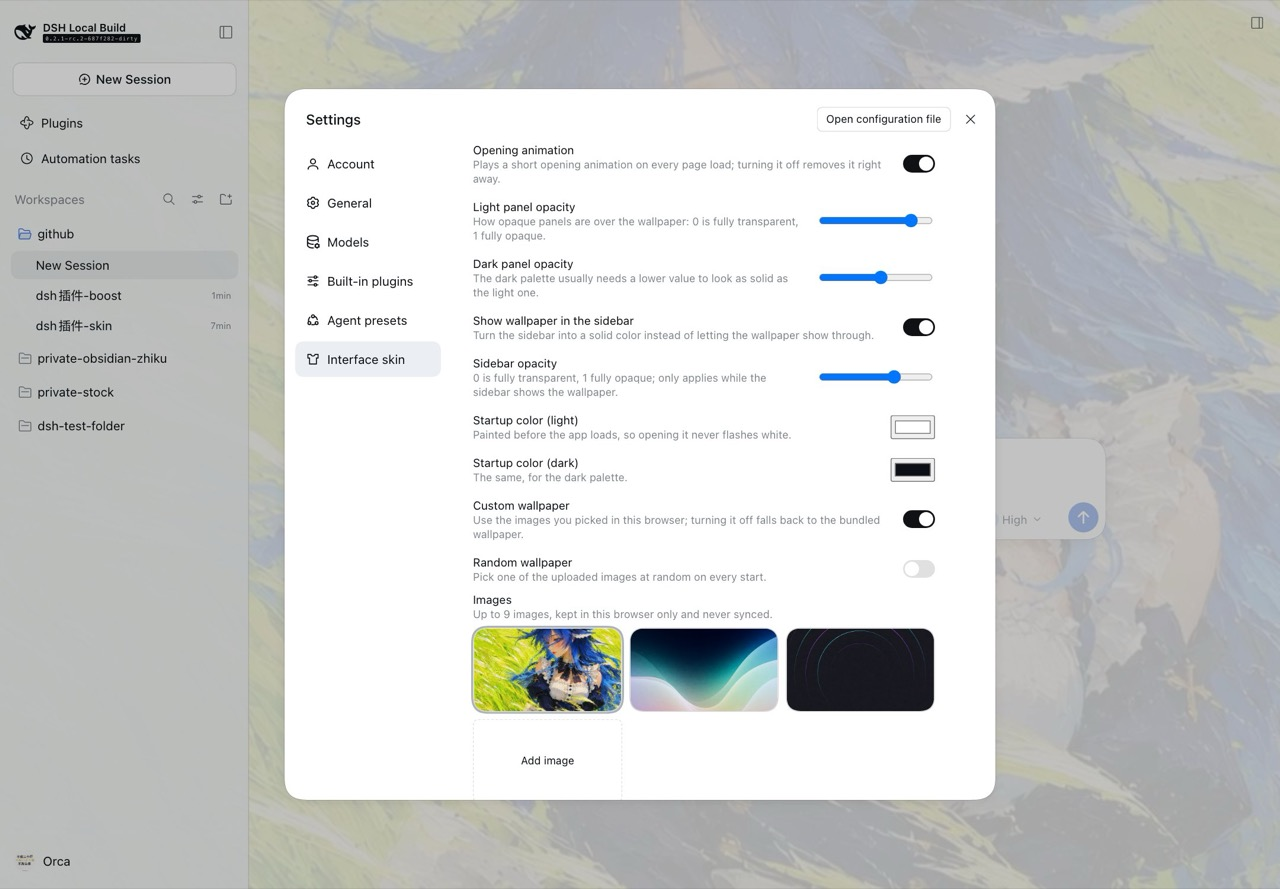
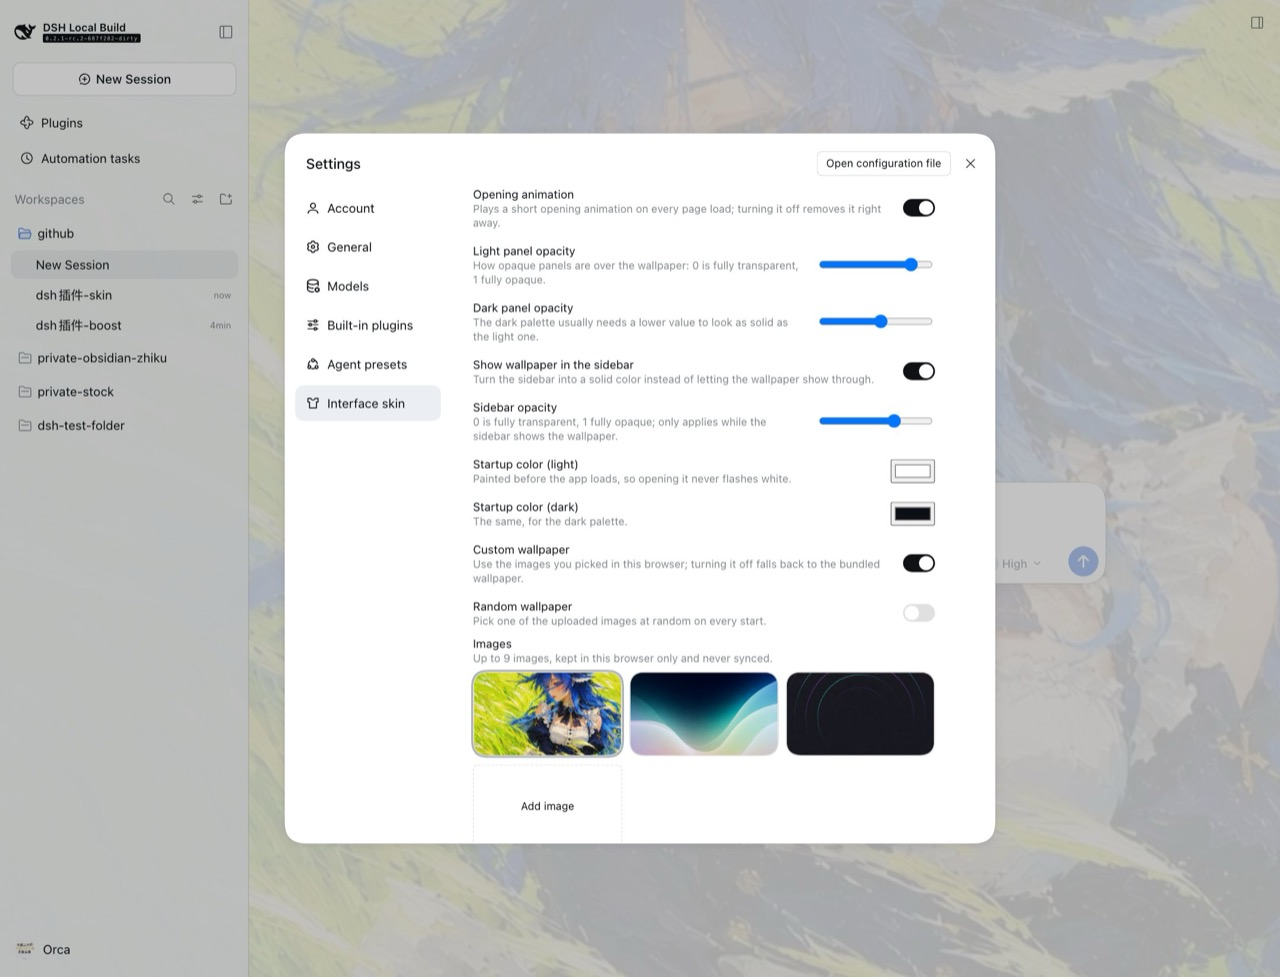
feat(shell-skin): delete an upload from a hover x on its thumbnail
Each tile owns its delete control; it stays hidden until hover or focus so
the grid stays quiet, and the separate Remove selected button is gone.

diff --git a/src/client/SkinSettingsRow.tsx b/src/client/SkinSettingsRow.tsx
@@ -235,11 +235,11 @@ export function SkinSettingsRow({ view, form, preview, listWallpapers, activeWal
       commit()
     }
   }
-  const removeSelected = async (): Promise<void> => {
-    if (active === undefined || removeWallpaper === undefined) return
+  const removeOne = async (id: string): Promise<void> => {
+    if (removeWallpaper === undefined) return
     try {
       setWallpaperError(undefined)
-      await removeWallpaper(active)
+      await removeWallpaper(id)
       refreshGallery()
     } catch (error) {
       setWallpaperError(storageMessage(error))
@@ -481,27 +481,37 @@ export function SkinSettingsRow({ view, form, preview, listWallpapers, activeWal
           </span>
           <div style={{ display: 'grid', gridTemplateColumns: 'repeat(3, minmax(0, 1fr))', gap: 8 }}>
             {gallery.map(item => (
-              <button
-                key={item.id}
-                type="button"
-                aria-label={item.name ?? copy('image.title')}
-                aria-pressed={active === item.id}
-                data-wallpaper-thumb={item.id}
-                onClick={() => { void chooseWallpaper(item.id) }}
-                style={{
-                  padding: 0,
-                  width: '100%',
-                  aspectRatio: '16 / 9',
-                  overflow: 'hidden',
-                  borderRadius: 'var(--dsw-radius-xl)',
-                  cursor: 'pointer',
-                  background: 'transparent',
-                  border: '0.5px solid var(--dsw-alias-border-l4)',
-                  boxShadow: active === item.id ? '0 0 0 2px var(--dsw-static-neutral-bluish-400)' : 'none',
-                }}
-              >
-                <img src={item.url} alt="" style={{ width: '100%', height: '100%', objectFit: 'cover', display: 'block' }} />
-              </button>
+              <div key={item.id} className="shell-skin-thumb" style={{ position: 'relative' }}>
+                <button
+                  type="button"
+                  aria-label={item.name ?? copy('image.title')}
+                  aria-pressed={active === item.id}
+                  data-wallpaper-thumb={item.id}
+                  onClick={() => { void chooseWallpaper(item.id) }}
+                  style={{
+                    padding: 0,
+                    width: '100%',
+                    aspectRatio: '16 / 9',
+                    overflow: 'hidden',
+                    borderRadius: 'var(--dsw-radius-xl)',
+                    cursor: 'pointer',
+                    background: 'transparent',
+                    border: '0.5px solid var(--dsw-alias-border-l4)',
+                    boxShadow: active === item.id ? '0 0 0 2px var(--dsw-static-neutral-bluish-400)' : 'none',
+                  }}
+                >
+                  <img src={item.url} alt="" style={{ width: '100%', height: '100%', objectFit: 'cover', display: 'block' }} />
+                </button>
+                <button
+                  type="button"
+                  className="shell-skin-thumb-delete"
+                  aria-label={item.name === undefined ? copy('image.delete') : `${copy('image.delete')} ${item.name}`}
+                  data-wallpaper-delete={item.id}
+                  onClick={() => { void removeOne(item.id) }}
+                >
+                  ×
+                </button>
+              </div>
             ))}
             <Button
               size="sm"
@@ -524,17 +534,7 @@ export function SkinSettingsRow({ view, form, preview, listWallpapers, activeWal
               }}
             />
           </div>
-          <div style={{ display: 'flex', gap: 8, alignItems: 'center' }}>
-            <Button
-              size="sm"
-              variant="outline"
-              disabled={disabled || active === undefined}
-              onClick={() => { void removeSelected() }}
-            >
-              {copy('image.removeSelected')}
-            </Button>
-            {gallery.length >= MAX_WALLPAPERS ? <span style={hint}>{copy('image.max')}</span> : null}
-          </div>
+          {gallery.length >= MAX_WALLPAPERS ? <span style={hint}>{copy('image.max')}</span> : null}
         </div>
       ) : null}
 

diff --git a/src/client/index.tsx b/src/client/index.tsx
@@ -309,6 +309,36 @@ const SKIN_CSS = `
   /* The conversation column paints the same base token again above the frame,
      so its wallpaper reads double-tinted next to a global panel. Neutralise
      that layer; the phase attribute is the only stable hook it exposes. */
+  /* Per-thumbnail delete: hidden until the tile is hovered or holds focus. */
+  .shell-skin-thumb .shell-skin-thumb-delete {
+    position: absolute;
+    top: 6px;
+    right: 6px;
+    width: 20px;
+    height: 20px;
+    display: flex;
+    align-items: center;
+    justify-content: center;
+    padding: 0;
+    border: none;
+    border-radius: 50%;
+    background: #d92d20;
+    color: #fff;
+    font-size: 14px;
+    line-height: 1;
+    cursor: pointer;
+    opacity: 0;
+    pointer-events: none;
+    transition: opacity 120ms ease;
+  }
+  .shell-skin-thumb:hover .shell-skin-thumb-delete,
+  .shell-skin-thumb:focus-within .shell-skin-thumb-delete {
+    opacity: 1;
+    pointer-events: auto;
+  }
+  @media (hover: none) {
+    .shell-skin-thumb .shell-skin-thumb-delete { opacity: 1; pointer-events: auto; }
+  }
   html [data-phase='hero'],
   html [data-phase='active'],
   html [data-phase='settling'] {

diff --git a/src/client/locales.ts b/src/client/locales.ts
@@ -37,7 +37,7 @@ export const zh = {
   'image.title': '图片',
   'image.description': '最多 9 张，只保存在这台浏览器里，不会同步到其他设备。',
   'image.add': '添加图片',
-  'image.removeSelected': '移除所选',
+  'image.delete': '删除这张图片',
   'image.max': '已达 9 张上限',
   'image.errorLimit': '最多只能保存 9 张图片。',
   'image.choose': '选择图片',
@@ -97,7 +97,7 @@ export const en: Record<SkinKey, string> = {
   'image.title': 'Images',
   'image.description': 'Up to 9 images, kept in this browser only and never synced.',
   'image.add': 'Add image',
-  'image.removeSelected': 'Remove selected',
+  'image.delete': 'Delete image',
   'image.max': 'Limit of 9 reached',
   'image.errorLimit': 'You can keep up to 9 images.',
   'image.choose': 'Choose image',

diff --git a/CHANGELOG.md b/CHANGELOG.md
@@ -11,6 +11,7 @@
 - 设置页底部新增「报告问题」与「复制诊断信息」：前者打开带模板的 issue，后者只复制版本、平台和设置项，不包含图片或个人信息。
 - 设置导航里「界面皮肤」的图标换成 T 恤轮廓（取自 Ant Design Icons 的 SkinOutlined，MIT）。宿主按 section id 固定图标，插件在运行时替换。
 - 设置页的壁纸预览改为每行三张，间距、圆角和选中描边与「通用 → 外观」的选择块保持一致。
+- 上传图片的删除改为悬停缩略图右上角的红色 ×，去掉单独的「移除所选」按钮。
 - 全面改写中英文文案：去掉“半边”等内部说法，统一用「开场动画 / 侧边栏 / 面板透明度」，每一项说明改成描述用户看到的效果。
 - 插件卡片的描述改为功能导向：「开场动画、自定义壁纸、面板透明度，改完立即生效」。
 - 插件卡片展示名改为「界面皮肤」/「Interface skin」，避免把 “shell” 误解为终端。

diff --git a/README.md b/README.md
@@ -98,7 +98,7 @@ dsh plugin --profile web add "file:$PWD"
 | 启动时的底色（浅色 / 深色） | 即时 |
 | 自定义壁纸 / 内置壁纸 | 即时 |
 | 随机壁纸 | 即时（下次启动从已上传的图片里随机选一张） |
-| 图片 | 最多 9 张，支持一次选多张，每张上限 10 MB；点击缩略图切换 |
+| 图片 | 最多 9 张，支持一次选多张，每张上限 10 MB；点击缩略图切换，悬停右上角可删除 |
 | 内置壁纸样式 | 即时；三张缩略图，每行三张 |
 | 恢复默认 | 即时重置上面所有设置项（不删除已上传的图片） |
 
